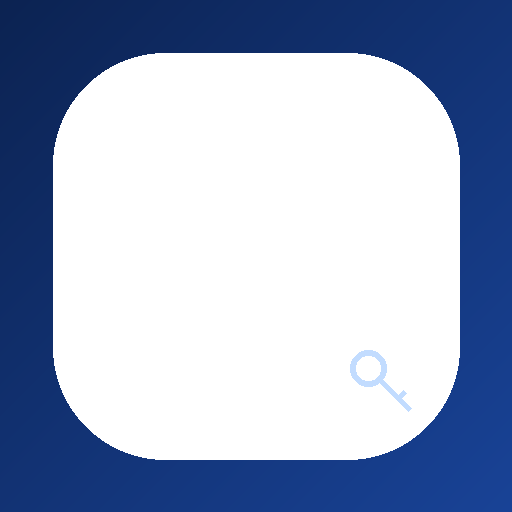
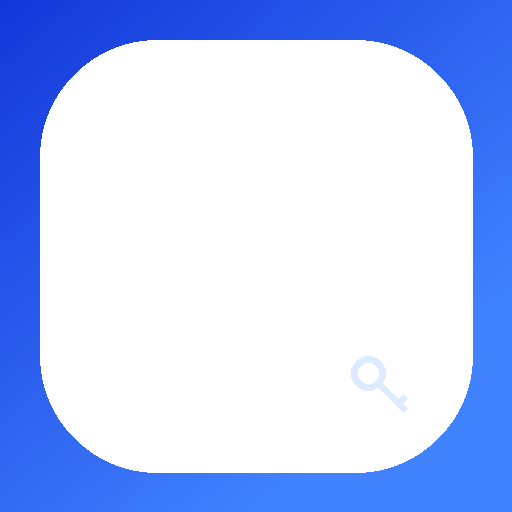
Polish 414Unlock mobile PWA visual design

diff --git a/mobile.css b/mobile.css
@@ -1,46 +1,120 @@
-:root{color-scheme:light;--navy:#09275f;--blue:#1465c8;--blue2:#0c4b9b;--ink:#10213b;--muted:#74849a;--line:#e4edf6;--glass:rgba(255,255,255,.78);--shadow:0 9px 26px rgba(32,68,110,.12)}
-*{box-sizing:border-box}html{min-height:100%;background:#dce8f4}body{margin:0;min-height:100vh;font-family:-apple-system,BlinkMacSystemFont,"Segoe UI",Roboto,Arial,sans-serif;color:var(--ink);background:radial-gradient(circle at 15% 3%,#f8fbff 0,#e6eef7 36%,#d4e1ef 100%);-webkit-font-smoothing:antialiased}
-a{color:inherit;text-decoration:none}button{font:inherit;color:inherit}.app-frame{width:min(100%,540px);min-height:100vh;margin:0 auto;position:relative;padding-bottom:calc(82px + env(safe-area-inset-bottom));overflow:hidden}
-.app-header{height:66px;padding:calc(12px + env(safe-area-inset-top)) 20px 10px;display:flex;align-items:center;justify-content:space-between;background:rgba(239,246,253,.55);backdrop-filter:blur(18px);-webkit-backdrop-filter:blur(18px);border-bottom:1px solid #ffffff90}
-.app-brand{display:flex;align-items:center;gap:8px;font-size:18px;font-weight:850;letter-spacing:-.04em;color:#102d5d}.key-mark{font-size:20px;color:#102c5c;transform:rotate(-28deg)}
-.header-actions{display:flex;align-items:center;gap:12px}.icon-button{width:34px;height:34px;border-radius:50%;border:1px solid #d4e1ee;background:#ffffffa8;font-size:22px;line-height:1;color:#234970}
-.user-avatar{display:grid;place-items:center;width:34px;height:34px;border-radius:50%;background:#e9f0f8;border:1px solid #cfdae8;color:#324761;font-weight:700;font-size:12px}
-.app-content{padding:18px 17px 24px}.welcome-row{display:flex;align-items:flex-end;justify-content:space-between;gap:10px;margin:0 2px 16px}.eyebrow{font-size:9px;letter-spacing:.15em;font-weight:800;color:#6d8299;margin:0 0 4px}.welcome-row h1{font-size:20px;letter-spacing:-.04em;line-height:1.15;margin:0;font-weight:800}.verified-chip{display:inline-flex;align-items:center;gap:4px;border-radius:30px;background:#e1f7e9;color:#177245;border:1px solid #b9e8c9;padding:4px 8px;font-size:10px;font-weight:800;white-space:nowrap}
-.wallet-card{padding:16px 16px 14px;border:1px solid #ffffffd6;border-radius:17px;background:linear-gradient(130deg,rgba(255,255,255,.93),rgba(242,248,255,.76));box-shadow:var(--shadow);backdrop-filter:blur(18px);-webkit-backdrop-filter:blur(18px)}
-.wallet-card-top{display:flex;justify-content:space-between;align-items:center;font-size:12px;color:#2d405a;font-weight:600}.wallet-live{font-size:8px;letter-spacing:.08em;color:#21865a;display:flex;align-items:center;gap:5px}.wallet-live i{width:6px;height:6px;background:#36ad75;border-radius:50%}
-.wallet-balance{display:block;font-size:30px;letter-spacing:-.055em;line-height:1.18;font-weight:700;color:#111f31;margin:4px 0 10px;font-family:Georgia,serif}
-.wallet-actions{display:flex;gap:8px}.primary-action,.secondary-action{display:inline-flex;align-items:center;justify-content:center;gap:7px;min-height:32px;padding:0 13px;border-radius:30px;font-size:10px;font-weight:800}.primary-action{background:#0e1d30;color:white}.secondary-action{border:1px solid #bdcbd9;background:#ffffff55;color:#273d56}
-.active-orders-card{display:flex;align-items:center;gap:10px;min-height:57px;margin:10px 0 9px;padding:9px 13px;border:1px solid #ffffffd6;border-radius:14px;background:rgba(255,255,255,.76);box-shadow:0 5px 15px rgba(38,75,115,.08)}
-.active-orders-card>span:first-child{display:grid;gap:2px;flex:1}.active-orders-card small{font-size:8px;letter-spacing:.13em;color:#708197;font-weight:800}.active-orders-card strong{font-size:12px;font-weight:800;color:#263c56}.mini-chart{width:90px;height:36px}.mini-chart svg{width:100%;height:100%}.arrow-mark{font-size:23px;color:#7890a8}
-.quick-grid{display:grid;grid-template-columns:1fr 1fr;gap:8px;margin-bottom:19px}.quick-card{min-height:93px;padding:10px 9px 8px;border:1px solid #ffffffdd;border-radius:14px;background:rgba(255,255,255,.76);box-shadow:0 5px 14px rgba(38,75,115,.09);display:flex;flex-direction:column;align-items:center;justify-content:center;text-align:center;cursor:pointer;transition:transform .15s,background .15s}.quick-card:active{transform:scale(.98);background:#fff}
-.quick-icon{width:39px;height:39px;display:grid;place-items:center;margin-bottom:4px;border-radius:12px;font-size:24px}.unlock-icon{background:#dceaff}.imei-icon{background:#dff6eb;color:#087d53;font-size:25px}.status-icon{background:#e0efff}.wallet-icon{background:#fff0ce;color:#87631c;font-size:27px}
-.quick-card strong{font-size:11px;line-height:1.25;font-weight:800;color:#263b54}.quick-card small{font-size:8px;line-height:1.3;color:#738298;margin-top:2px}
-.section-heading{display:flex;align-items:center;justify-content:space-between;gap:8px;margin:3px 1px 10px}.section-heading h2{font-size:18px;letter-spacing:-.04em;margin:0;color:#1b304a}.section-heading .eyebrow{margin-bottom:2px}.text-action{border:0;background:transparent;color:#2364ac;font-size:10px;font-weight:800;padding:5px}
-.activity-list,.order-list{display:grid;gap:8px}.activity-row,.order-card{display:flex;align-items:center;gap:10px;padding:11px 12px;border:1px solid #ffffffc7;border-radius:13px;background:rgba(255,255,255,.72);box-shadow:0 4px 12px rgba(37,73,111,.06);min-width:0}
-.activity-symbol{width:29px;height:29px;flex:0 0 29px;border-radius:10px;display:grid;place-items:center;background:#e9f1fa;color:#2f5f91;font-weight:800;font-size:13px}.activity-copy,.order-copy{min-width:0;flex:1}.activity-copy strong,.order-copy strong{display:block;font-size:10px;line-height:1.35;color:#253951;white-space:nowrap;overflow:hidden;text-overflow:ellipsis}.activity-copy small,.order-copy small{display:block;font-size:8px;color:#8190a2;margin-top:3px;white-space:nowrap;overflow:hidden;text-overflow:ellipsis}.activity-amount{font-size:9px;font-weight:800;white-space:nowrap;color:#225c91}.order-status{font-size:8px;font-weight:800;text-transform:uppercase;letter-spacing:.02em;padding:5px 7px;border-radius:30px;background:#e9f0f7;color:#49627f;white-space:nowrap}
-.order-status.completed{background:#e3f7eb;color:#187647}.order-status.rejected,.order-status.failed,.order-status.cancelled{background:#fee9e9;color:#a33b3b}.order-status.pending,.order-status.in_progress,.order-status.processing{background:#fff2d9;color:#8a641a}
-.order-heading{margin-top:19px}.order-card{align-items:flex-start}.order-copy small{white-space:normal}.order-card .order-status{margin-left:auto}
-.app-view{display:none;animation:rise .22s ease}.app-view.active{display:block}.app-view[hidden]{display:none!important}@keyframes rise{from{opacity:.3;transform:translateY(5px)}to{opacity:1;transform:none}}
-.muted-copy{font-size:11px;color:#6f8095;line-height:1.55;margin:0 1px 12px}.count-pill{display:grid;place-items:center;min-width:26px;height:26px;padding:0 7px;border-radius:20px;background:#e2edfa;color:#2562a3;font-weight:800;font-size:10px}
-.summary-grid{display:grid;grid-template-columns:1fr 1fr;gap:8px;margin:13px 0 18px}.summary-card{padding:13px;border:1px solid #fff;border-radius:13px;background:#ffffffa8}.summary-card small{display:block;font-size:9px;color:#75879b}.summary-card strong{display:block;font-size:21px;color:#1a3554;margin-top:3px}.list-title{font-size:13px;margin:16px 1px 9px;color:#243c59}
-.profile-card{display:flex;flex-direction:column;align-items:center;padding:23px 16px;border:1px solid #ffffffd4;border-radius:17px;background:#ffffffa9;box-shadow:var(--shadow);text-align:center}.profile-big-avatar{display:grid;place-items:center;width:60px;height:60px;border-radius:50%;background:linear-gradient(140deg,#1d5ea8,#10295f);color:#fff;font-size:19px;font-weight:800}.profile-card h3{font-size:17px;margin:10px 0 5px}.profile-card p{font-size:11px;color:#73839a;margin:5px 0}.profile-card small{font-size:9px;color:#8290a2}.profile-card b{color:#354b63}
-.profile-links{margin-top:12px;border:1px solid #ffffffc7;border-radius:14px;overflow:hidden;background:#ffffffa5}.profile-links a{display:flex;align-items:center;justify-content:space-between;padding:14px;border-bottom:1px solid #e4edf5;font-size:11px;font-weight:700}.profile-links a:last-child{border:0}.profile-links span{color:#7890a8;font-size:17px}
-.signout-button{width:100%;margin-top:13px;padding:13px;border:1px solid #e5bcbc;border-radius:12px;background:#fff8f8;color:#a23f3f;font-size:11px;font-weight:800}
-.app-message{padding:11px 13px;margin-top:14px;border-radius:12px;background:#fff4df;color:#795c19;font-size:10px}.app-message.error{background:#ffe9e9;color:#a03535}
-.empty-state,.loading-line{padding:16px 13px;text-align:center;border:1px dashed #c7d5e5;border-radius:13px;color:#78899d;font-size:10px;background:#ffffff64}
-.bottom-nav{position:fixed;z-index:5;bottom:0;left:50%;transform:translateX(-50%);width:min(100%,540px);height:calc(68px + env(safe-area-inset-bottom));padding:7px 12px calc(7px + env(safe-area-inset-bottom));display:grid;grid-template-columns:repeat(5,1fr);background:rgba(250,253,255,.9);border-top:1px solid #dfe8f1;backdrop-filter:blur(20px);-webkit-backdrop-filter:blur(20px)}
-.nav-item{border:0;background:transparent;display:flex;flex-direction:column;align-items:center;justify-content:center;gap:2px;color:#7b899b}.nav-item span{font-size:20px;line-height:1.1}.nav-item small{font-size:8px;font-weight:700}.nav-item.active{color:#123b76}.nav-item.active span{transform:translateY(-1px)}
-.install-shell{width:min(100%,540px);min-height:100svh;margin:auto;padding:calc(28px + env(safe-area-inset-top)) 23px calc(28px + env(safe-area-inset-bottom));display:flex;flex-direction:column;align-items:center;justify-content:center;text-align:center}.install-logo{width:76px;height:76px;border-radius:23px;display:grid;place-items:center;background:linear-gradient(145deg,#163c7c,#0b1d47);color:white;font-weight:900;font-size:19px;box-shadow:0 12px 26px #173b7c35}.install-shell h1{font-size:25px;margin:20px 0 8px;letter-spacing:-.04em}.install-shell p{font-size:13px;line-height:1.6;color:#657991;max-width:330px}.install-instructions{margin:13px 0 20px;padding:13px 15px;border:1px solid #fff;border-radius:14px;background:#ffffff9c;font-size:11px;line-height:1.6;color:#536a84;max-width:360px}.install-button{width:100%;max-width:350px;min-height:51px;padding:0 16px;border:0;border-radius:13px;background:#0d284f;color:#fff;font-size:13px;font-weight:800;box-shadow:0 7px 17px #163b6f2b}.install-button:disabled{opacity:.6}.install-back{margin-top:17px;color:#376694;font-size:11px;font-weight:700}
-@media(min-width:700px){.app-frame{margin-top:22px;margin-bottom:22px;min-height:calc(100vh - 44px);border-radius:28px;box-shadow:0 18px 55px #38587930;background:rgba(236,244,251,.35)}.bottom-nav{bottom:22px;border-radius:0 0 28px 28px}.install-shell{min-height:100vh}}
-@media(max-width:360px){.app-content{padding-left:13px;padding-right:13px}.wallet-balance{font-size:27px}.quick-card{min-height:88px}}
-
-.quick-icon svg{display:block;width:100%;height:100%}.quick-icon{padding:2px}
-
-.service-options{display:grid;gap:9px;margin-top:12px}
-.service-option{width:100%;display:flex;align-items:center;gap:11px;padding:13px;border:1px solid #ffffffd2;border-radius:14px;background:rgba(255,255,255,.78);box-shadow:0 4px 12px rgba(37,73,111,.06);text-align:left}
-.service-option-icon{width:38px;height:38px;display:grid;place-items:center;flex:0 0 38px;border-radius:11px;background:#e6f0fb;font-size:21px}
-.service-option>span:nth-child(2){flex:1;min-width:0}
-.service-option strong,.service-option small{display:block}
-.service-option strong{font-size:11px;color:#273c56}
-.service-option small{font-size:9px;color:#7a899b;margin-top:3px}
-.service-option>b{font-size:21px;font-weight:400;color:#8496a9}
+@import url('https://fonts.googleapis.com/css2?family=DM+Sans:wght@400;500;600;700;800&family=Manrope:wght@500;600;700;800&display=swap');
+:root{
+ color-scheme:light;
+ --blue:#245BFF;--blue-dark:#1239D9;--blue-deep:#0A267E;--blue-soft:#EAF0FF;
+ --ink:#14213D;--muted:#71809A;--line:#E7ECF5;--green:#159A68;
+ --shadow:0 12px 30px rgba(29,67,146,.10);
+}
+*{box-sizing:border-box}
+html{min-height:100%;background:#EEF3FC}
+body{margin:0;min-height:100vh;font-family:'DM Sans',-apple-system,BlinkMacSystemFont,'Segoe UI',sans-serif;color:var(--ink);background:linear-gradient(180deg,#EAF1FF 0,#F5F7FC 240px,#F4F6FB 100%);-webkit-font-smoothing:antialiased}
+a{color:inherit;text-decoration:none}button{font:inherit;color:inherit}
+.app-frame{width:min(100%,540px);min-height:100vh;margin:0 auto;position:relative;padding-bottom:calc(91px + env(safe-area-inset-bottom));overflow:hidden;background:#F5F7FC;box-shadow:0 0 60px rgba(36,65,122,.07)}
+.app-header{height:calc(70px + env(safe-area-inset-top));padding:calc(11px + env(safe-area-inset-top)) 21px 10px;display:flex;align-items:center;justify-content:space-between;background:linear-gradient(112deg,#1538D7 0%,#245BFF 57%,#4384FF 100%);color:#fff;position:relative;isolation:isolate}
+.app-header:after{content:"";position:absolute;width:180px;height:180px;border:1px solid #FFFFFF20;border-radius:50%;right:-64px;top:-116px;box-shadow:0 0 0 23px #FFFFFF08,0 0 0 48px #FFFFFF05;z-index:-1}
+.app-brand{display:flex;align-items:center;gap:10px;font-family:Manrope,'DM Sans',sans-serif;font-size:19px;font-weight:800;letter-spacing:-.055em;color:#fff}
+.key-mark{display:grid;place-items:center;width:30px;height:30px;border-radius:10px;background:#FFFFFF20;border:1px solid #FFFFFF35;color:#fff;font-size:16px;transform:none;box-shadow:inset 0 1px 0 #FFFFFF2A}
+.header-actions{display:flex;align-items:center;gap:11px}
+.icon-button{width:37px;height:37px;border-radius:13px;border:1px solid #FFFFFF40;background:#FFFFFF18;color:white;font-size:23px;line-height:1;box-shadow:inset 0 1px 0 #FFFFFF24;transition:transform .15s,background .15s}
+.icon-button:active{transform:rotate(35deg);background:#FFFFFF2E}
+.user-avatar{display:grid;place-items:center;width:36px;height:36px;border-radius:50%;background:linear-gradient(145deg,#F8FBFF,#DDE9FF);border:2px solid #FFFFFF90;color:#2549A7;font-weight:800;font-size:12px;box-shadow:0 4px 12px #0A237C30}
+.app-content{padding:23px 19px 28px}
+.welcome-row{display:flex;align-items:center;justify-content:space-between;gap:10px;margin:0 2px 18px}
+.eyebrow{font-size:10px;letter-spacing:.16em;font-weight:800;color:#7D8AA4;margin:0 0 5px}
+.welcome-row h1{font-family:Manrope,'DM Sans',sans-serif;font-size:23px;letter-spacing:-.055em;line-height:1.16;margin:0;font-weight:800;color:#172747}
+.verified-chip{display:inline-flex;align-items:center;gap:5px;border-radius:30px;background:#E5F9EF;color:#138454;border:1px solid #BCEBD2;padding:6px 10px;font-size:10px;font-weight:800;white-space:nowrap;box-shadow:0 2px 7px #16895710}
+.wallet-card{position:relative;isolation:isolate;overflow:hidden;min-height:176px;padding:19px 19px 16px;border:1px solid #FFFFFF80;border-radius:23px;background:linear-gradient(118deg,#1438D9 0%,#245BFF 53%,#4C8AFF 100%);box-shadow:0 16px 30px rgba(35,83,221,.27),inset 0 1px 0 #FFFFFF3B;color:#fff}
+.wallet-card:before{content:"";position:absolute;z-index:-1;width:225px;height:225px;right:-68px;top:-112px;border-radius:50%;background:linear-gradient(140deg,#FFFFFF22,#FFFFFF03);border:1px solid #FFFFFF27;box-shadow:0 0 0 20px #FFFFFF08,0 0 0 42px #FFFFFF06}
+.wallet-card:after{content:"414";position:absolute;z-index:-1;right:16px;bottom:-27px;font:800 104px/1 Manrope,sans-serif;letter-spacing:-.12em;color:#FFFFFF0D;pointer-events:none}
+.wallet-card-top{display:flex;justify-content:space-between;align-items:center;font-size:12px;color:#FFFFFFE8;font-weight:700;letter-spacing:.01em}
+.wallet-live{font-size:9px;letter-spacing:.12em;color:#E9FFF5;display:flex;align-items:center;gap:6px;padding:5px 8px;border-radius:30px;background:#FFFFFF18;border:1px solid #FFFFFF26}
+.wallet-live i{width:7px;height:7px;background:#69F2B5;border-radius:50%;box-shadow:0 0 0 3px #69F2B52C}
+.wallet-balance{display:block;font-family:Manrope,'DM Sans',sans-serif;font-size:34px;letter-spacing:-.055em;line-height:1.14;font-weight:800;color:#fff;margin:13px 0 15px;text-shadow:0 2px 8px #1238A522}
+.wallet-actions{display:flex;gap:9px;position:relative;z-index:1}
+.primary-action,.secondary-action{display:inline-flex;align-items:center;justify-content:center;gap:8px;min-height:39px;padding:0 15px;border-radius:12px;font-size:11px;font-weight:800;letter-spacing:.005em;transition:transform .15s,filter .15s}
+.primary-action{background:#fff;color:#1746D9;box-shadow:0 4px 10px #082C9C35}
+.secondary-action{border:1px solid #FFFFFF72;background:#FFFFFF16;color:#fff}
+.primary-action:active,.secondary-action:active{transform:translateY(1px);filter:brightness(.96)}
+.active-orders-card{display:flex;align-items:center;gap:12px;min-height:69px;margin:13px 0 13px;padding:11px 15px;border:1px solid #DDE7FF;border-radius:17px;background:linear-gradient(105deg,#FFFFFF 0%,#EFF4FF 100%);box-shadow:0 7px 17px rgba(34,76,163,.07)}
+.active-orders-card>span:first-child{display:grid;gap:4px;flex:1}
+.active-orders-card small{font-size:9px;letter-spacing:.13em;color:#7182A2;font-weight:800}
+.active-orders-card strong{font-family:Manrope,sans-serif;font-size:15px;font-weight:800;color:#1A315B}
+.mini-chart{width:96px;height:39px}.mini-chart svg{width:100%;height:100%}.mini-chart path:first-child{stroke:#3472FF}.mini-chart path:last-child{stroke:#B8C9F5}
+.arrow-mark{font-size:26px;color:#5B7FCB;line-height:1}
+.quick-grid{display:grid;grid-template-columns:1fr 1fr;gap:11px;margin:0 0 25px}
+.quick-card{min-height:116px;padding:14px 10px 12px;border:1px solid #E7ECF6;border-radius:19px;background:linear-gradient(150deg,#FFFFFF 0%,#FBFCFF 100%);box-shadow:0 7px 17px rgba(30,62,116,.065),inset 0 1px 0 #fff;display:flex;flex-direction:column;align-items:center;justify-content:center;text-align:center;cursor:pointer;transition:transform .16s,box-shadow .16s,border-color .16s}
+.quick-card:active{transform:scale(.975);box-shadow:0 3px 9px rgba(30,62,116,.08);border-color:#B8CAFF}
+.quick-icon{width:48px;height:48px;display:grid;place-items:center;margin-bottom:8px;border-radius:15px;font-size:25px;box-shadow:inset 0 1px 0 #FFFFFFA8}
+.unlock-icon{background:linear-gradient(145deg,#E0EAFF,#C7D9FF)}
+.imei-icon{background:linear-gradient(145deg,#DDF9EC,#BDF1D9)}
+.status-icon{background:linear-gradient(145deg,#D9EDFF,#C2DDFF)}
+.wallet-icon{background:linear-gradient(145deg,#FFF0C8,#FFE1A0)}
+.quick-card strong{font-family:Manrope,sans-serif;font-size:12px;line-height:1.25;font-weight:800;color:#203453}
+.quick-card small{font-size:9px;line-height:1.35;color:#8090A8;margin-top:4px}
+.quick-icon svg{display:block;width:100%;height:100%}.quick-icon{padding:5px}
+.section-heading{display:flex;align-items:center;justify-content:space-between;gap:8px;margin:3px 1px 13px}
+.section-heading h2{font-family:Manrope,sans-serif;font-size:20px;letter-spacing:-.045em;margin:0;color:#172B4A;font-weight:800}
+.section-heading .eyebrow{margin-bottom:3px}
+.text-action{border:0;background:#EAF0FF;color:#285AE0;font-size:10px;font-weight:800;padding:8px 12px;border-radius:30px}
+.activity-list,.order-list{display:grid;gap:9px}
+.activity-row,.order-card{display:flex;align-items:center;gap:12px;padding:13px 13px;border:1px solid #E8EDF5;border-radius:16px;background:#fff;box-shadow:0 5px 13px rgba(35,57,91,.045);min-width:0}
+.activity-symbol{width:38px;height:38px;flex:0 0 38px;border-radius:13px;display:grid;place-items:center;background:#EAF0FF;color:#2A5CDE;font-weight:800;font-size:16px}
+.activity-copy,.order-copy{min-width:0;flex:1}
+.activity-copy strong,.order-copy strong{display:block;font-family:Manrope,sans-serif;font-size:11px;line-height:1.35;color:#223654;font-weight:800;white-space:nowrap;overflow:hidden;text-overflow:ellipsis}
+.activity-copy small,.order-copy small{display:block;font-size:9px;color:#8492A8;margin-top:4px;white-space:nowrap;overflow:hidden;text-overflow:ellipsis}
+.activity-amount{font-size:10px;font-weight:800;white-space:nowrap;color:#1B9A6A}
+.order-status{font-size:8px;font-weight:800;text-transform:uppercase;letter-spacing:.045em;padding:6px 8px;border-radius:30px;background:#EAF0FF;color:#4161A6;white-space:nowrap}
+.order-status.completed{background:#E2F8ED;color:#168254}
+.order-status.rejected,.order-status.failed,.order-status.cancelled{background:#FFE8E8;color:#B13C48}
+.order-status.pending,.order-status.in_progress,.order-status.processing{background:#FFF2D8;color:#956A16}
+.order-heading{margin-top:24px}
+.order-card{align-items:flex-start;padding:14px}
+.order-copy small{white-space:normal;line-height:1.45}
+.order-card .order-status{margin-left:auto}
+.app-view{display:none;animation:rise .22s ease}
+.app-view.active{display:block}
+.app-view[hidden]{display:none!important}
+@keyframes rise{from{opacity:.2;transform:translateY(7px)}to{opacity:1;transform:none}}
+.muted-copy{font-size:12px;color:#77869D;line-height:1.6;margin:0 1px 16px}
+.count-pill{display:grid;place-items:center;min-width:30px;height:30px;padding:0 9px;border-radius:30px;background:#E7EEFF;color:#285BE4;font-weight:800;font-size:11px}
+.summary-grid{display:grid;grid-template-columns:1fr 1fr;gap:11px;margin:15px 0 21px}
+.summary-card{padding:17px;border:1px solid #E0E8F7;border-radius:17px;background:linear-gradient(145deg,#FFFFFF,#F1F5FF);box-shadow:0 6px 15px rgba(35,70,140,.06)}
+.summary-card small{display:block;font-size:10px;color:#75849C;font-weight:700}
+.summary-card strong{display:block;font-family:Manrope,sans-serif;font-size:25px;color:#1B48BD;margin-top:5px;font-weight:800}
+.list-title{font-family:Manrope,sans-serif;font-size:14px;margin:20px 1px 11px;color:#213654;font-weight:800}
+.profile-card{display:flex;flex-direction:column;align-items:center;padding:27px 17px;border:1px solid #E3EAF7;border-radius:22px;background:linear-gradient(145deg,#FFFFFF,#F1F5FF);box-shadow:var(--shadow);text-align:center}
+.profile-big-avatar{display:grid;place-items:center;width:72px;height:72px;border-radius:23px;background:linear-gradient(145deg,#1948E7,#4386FF);color:#fff;font-size:21px;font-weight:800;box-shadow:0 9px 20px #285BDB38}
+.profile-card h3{font-family:Manrope,sans-serif;font-size:19px;margin:13px 0 6px;font-weight:800}
+.profile-card p{font-size:12px;color:#76869E;margin:7px 0}
+.profile-card small{font-size:10px;color:#8290A2}
+.profile-card b{color:#354B63}
+.profile-links{margin-top:14px;border:1px solid #E4EAF4;border-radius:17px;overflow:hidden;background:#fff;box-shadow:0 5px 14px rgba(37,73,111,.045)}
+.profile-links a{display:flex;align-items:center;justify-content:space-between;padding:16px;border-bottom:1px solid #EDF0F6;font-size:12px;font-weight:700;color:#263B59}
+.profile-links a:last-child{border:0}.profile-links span{color:#3469EB;font-size:20px}
+.signout-button{width:100%;margin-top:15px;padding:15px;border:1px solid #F1C8CC;border-radius:14px;background:#FFF6F6;color:#AF3947;font-size:12px;font-weight:800}
+.empty-state,.loading-line{padding:20px 14px;text-align:center;border:1px dashed #C9D5E8;border-radius:15px;color:#8090A7;font-size:11px;background:#FFFFFFA6}
+.app-message{padding:13px 15px;margin-top:16px;border-radius:14px;background:#FFF3D9;color:#795C19;font-size:11px;line-height:1.5}
+.app-message.error{background:#FFE9EA;color:#A03542}
+.bottom-nav{position:fixed;z-index:5;bottom:0;left:50%;transform:translateX(-50%);width:min(100%,540px);height:calc(76px + env(safe-area-inset-bottom));padding:9px 10px calc(9px + env(safe-area-inset-bottom));display:grid;grid-template-columns:repeat(5,1fr);background:rgba(255,255,255,.94);border-top:1px solid #E5EAF4;box-shadow:0 -9px 24px rgba(35,55,95,.07);backdrop-filter:blur(22px);-webkit-backdrop-filter:blur(22px)}
+.nav-item{border:0;background:transparent;display:flex;flex-direction:column;align-items:center;justify-content:center;gap:4px;color:#8793A7;min-width:0}
+.nav-item span{font-size:22px;line-height:1.05;width:37px;height:29px;display:grid;place-items:center;border-radius:11px}
+.nav-item small{font-size:9px;font-weight:700;letter-spacing:.01em}
+.nav-item.active{color:#245BFF}
+.nav-item.active span{background:#EAF0FF;color:#245BFF;transform:translateY(-1px)}
+.install-shell{width:min(100%,540px);min-height:100svh;margin:auto;padding:calc(30px + env(safe-area-inset-top)) 23px calc(30px + env(safe-area-inset-bottom));display:flex;flex-direction:column;align-items:center;justify-content:center;text-align:center}
+.install-logo{width:82px;height:82px;border-radius:25px;display:grid;place-items:center;background:linear-gradient(145deg,#1638D7,#3D7BFF);color:white;font-family:Manrope,sans-serif;font-weight:800;font-size:22px;box-shadow:0 13px 27px #2259ED42}
+.install-shell h1{font-family:Manrope,sans-serif;font-size:28px;margin:21px 0 8px;letter-spacing:-.05em;color:#172B4A}
+.install-shell p{font-size:13px;line-height:1.7;color:#687B98;max-width:340px}
+.install-instructions{margin:15px 0 22px;padding:16px 17px;border:1px solid #DEE7FA;border-radius:17px;background:#FFFFFFC9;box-shadow:0 7px 20px #294D8610;font-size:12px;line-height:1.65;color:#526985;max-width:370px}
+.install-button{width:100%;max-width:350px;min-height:54px;padding:0 17px;border:0;border-radius:15px;background:linear-gradient(105deg,#153BD9,#367AFF);color:#fff;font-size:13px;font-weight:800;box-shadow:0 9px 21px #2259ED38}
+.install-button:disabled{opacity:.6}.install-back{margin-top:19px;color:#285FE5;font-size:12px;font-weight:800}
+@media(min-width:700px){
+ body{padding:22px 0}.app-frame{margin:0 auto;min-height:calc(100vh - 44px);border-radius:30px;box-shadow:0 20px 65px rgba(22,47,104,.17)}
+ .app-header{border-radius:30px 30px 0 0}.bottom-nav{bottom:22px;border-radius:0 0 30px 30px;width:min(100%,540px)}
+}
+@media(max-width:390px){
+ .app-content{padding-left:15px;padding-right:15px}.welcome-row h1{font-size:21px}.wallet-balance{font-size:31px}
+ .quick-grid{gap:9px}.quick-card{min-height:108px}.quick-card strong{font-size:11px}.quick-card small{font-size:8px}
+ .mini-chart{width:78px}
+}
+@media(prefers-reduced-motion:reduce){*,*:before,*:after{scroll-behavior:auto!important;animation-duration:.01ms!important;transition-duration:.01ms!important}}

diff --git a/pwa-sw.js b/pwa-sw.js
@@ -1,4 +1,4 @@
-const CACHE_NAME="414unlock-mobile-shell-v1";
+const CACHE_NAME="414unlock-mobile-shell-v2";
 const SHELL=["./mobile.html","./mobile.css","./mobile.js","./mobile.webmanifest","./install.html","./install.js","./pwa-icon-192.png","./pwa-icon-512.png","./favicon.svg"];
 self.addEventListener("install",event=>event.waitUntil(caches.open(CACHE_NAME).then(cache=>cache.addAll(SHELL)).then(()=>self.skipWaiting())));
 self.addEventListener("activate",event=>event.waitUntil(caches.keys().then(keys=>Promise.all(keys.filter(key=>key.startsWith("414unlock-mobile-shell-")&&key!==CACHE_NAME).map(key=>caches.delete(key)))).then(()=>self.clients.claim())));

diff --git a/install.html b/install.html
@@ -2,7 +2,7 @@
 <html lang="en">
 <head>
 <meta charset="utf-8"><meta name="viewport" content="width=device-width,initial-scale=1,viewport-fit=cover">
-<meta name="theme-color" content="#dce9f6"><meta name="robots" content="noindex,nofollow">
+<meta name="theme-color" content="#245BFF"><meta name="robots" content="noindex,nofollow">
 <link rel="manifest" href="./mobile.webmanifest"><link rel="apple-touch-icon" href="./pwa-icon-192.png">
 <link rel="stylesheet" href="./mobile.css">
 <title>Install 414Unlock Mobile</title>

diff --git a/mobile.html b/mobile.html
@@ -3,7 +3,7 @@
 <head>
 <meta charset="utf-8">
 <meta name="viewport" content="width=device-width,initial-scale=1,viewport-fit=cover">
-<meta name="theme-color" content="#dce9f6">
+<meta name="theme-color" content="#245BFF">
 <meta name="mobile-web-app-capable" content="yes">
 <meta name="apple-mobile-web-app-capable" content="yes">
 <meta name="apple-mobile-web-app-status-bar-style" content="default">
